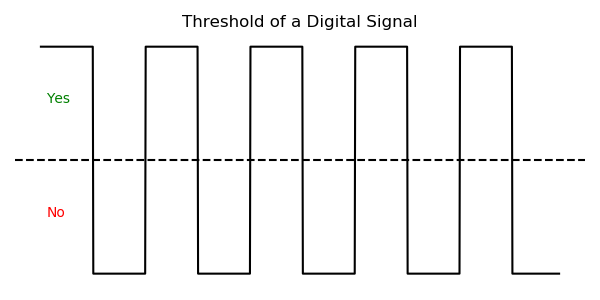
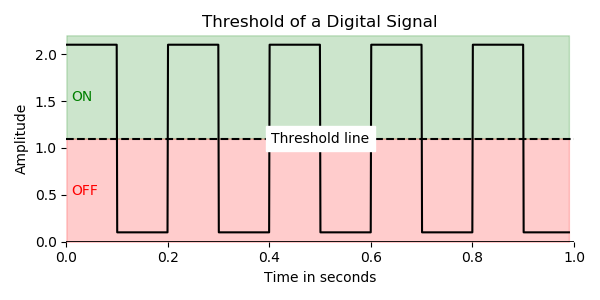
Digital

diff --git a/units/3 waves/resources/digital-plots.py b/units/3 waves/resources/digital-plots.py
@@ -9,22 +9,43 @@ import numpy as np
 t = np.linspace(0, 0.99, 1000, endpoint=True)
 
 fig, ax = plt.subplots(ncols=1, nrows=1, figsize=(6, 3))
-plt.axis('off')
 
-ax.plot(t, signal.square(2 * np.pi * 5 * t), color='k')
+
+ax.plot(t, signal.square(2 * np.pi * 5 * t) + 1.1, color='k')
 ax.set_title('Threshold of a Digital Signal')
 
-ax.axhline(y=0, color='k', ls='--')
+ax.axhline(y=1.1, color='k', ls='--')
 
-plt.text(0.01, 0.5, 'Yes', color='g')
-plt.text(0.01, -0.5, 'No', color='r')
+plt.text(0.01, 1.5, 'ON', color='g')
+plt.text(0.01, 0.5, 'OFF', color='r')
 
-ax.set_ylim(-1.1, 1.1)
+plt.text(0.5, 1.1, 'Threshold line', color='k',
+         verticalalignment='center',
+         horizontalalignment='center',
+         backgroundcolor='white')
+
+ax.fill_between(t, 1.1, 2.2, color='g', alpha=0.2)
+ax.fill_between(t, 0, 1.1, color='r', alpha=0.2)
+
+ax.set_ylim(0, 2.2)
+
+ax.set_frame_on(False)
+ax.get_xaxis().tick_bottom()
+# ax.axes.get_yaxis().set_visible(False)
+xmin, xmax = ax.get_xaxis().get_view_interval()
+ymin, ymax = ax.get_yaxis().get_view_interval()
+ax.add_artist(Line2D((xmin, xmax), (ymin, ymin), color='black', linewidth=2))
+
+ax.set_xlim(0, 1)
+
+ax.set_xlabel('Time in seconds')
+ax.set_ylabel('Amplitude')
+
 
 plt.tight_layout()
 plt.savefig('./digital-threshold.png', format='png', dpi=100)
-plt.close()
-# plt.show()
+# plt.close()
+plt.show()
 
 
 # Create a new plot for the frequency consideration
@@ -85,4 +106,4 @@ ax2.plot(t, 0.1 * np.sin(2 * np.pi * 5 * t), color='k')
 
 plt.tight_layout()
 plt.savefig('./digital-absorbed-filled.png', format='png', dpi=100)
-plt.show()
+plt.close()

diff --git a/units/3 waves/6 digital.md b/units/3 waves/6 digital.md
@@ -141,11 +141,11 @@ Digital is anything that only has 2 possibilities, 2 states.
 Think of a light switch, not a new fancy one but the old ones, they are either off or on.
 Here is a more extensive list:
 
-| 0 | 1 |
+| ON | OFF |
 |:-----:|:------:|
 | Black | White |
 | No | Yes |
-| Off | On |
+| 0 | 1 |
 | Up | Down |
 | Left | Right |
 
@@ -160,15 +160,25 @@ So, let us connect back to the activity.
 To describe digital there are two things to consider.
 
 ## Threshold
-Threshold is the point at which a signal is considered to be a yes, or a no.
-Anything above the threshold is a yes, anything below is a no.
+Threshold is the point at which a signal is considered to be a ON or OFF.
+Anything above the threshold is ON, anything below is a OFF.
 
 The threshold of a signal will later explain why a digital signal stops working as it gets smaller.
 
 <figure>
 <img src="/units/3 waves/resources/digital-threshold.png" alt="drawing" width="90%"/>
-<figcaption>Picture showing the yes/no threshold for a digital signal.</figcaption>
+<figcaption>Picture showing the ON/OFF threshold for a digital signal.</figcaption>
 </figure>
+
+Still confused?
+Let's try a different approach.
+Imagine you are drawing a picture and you make a mistake.
+So you erase something.
+You then keep going and make your picture perfectly.
+Now, when you show someone else your picture they will know that you have erased something, but they can't really tell what was there before.
+Since they can't really see it, they'll ignore it and only consider the darker lines that you've made.
+That is what a threshold is, the cutoff for when you consider something.
+In digital it is just very, very sharply defined.
 
 ## Frequency
 You are already familiar with frequency, so this will be quick.
@@ -231,15 +241,104 @@ Who likes music and movies?
 Every wonder about those discs that they used to store them on?
 What about NetFlix and why it is a bad idea to use mobile data with it?
 
-The thing about digital
+The thing about digital is that the frequency has to be really, really fast for it to be any use to us.
+Think back to the picture earlier.
+If you could only fill in one square every second, it would take you forever to make a picture.
+Instead, computers can fill in billions of squares a second.
+Just how fast you ask, well, off to wikipedia.
+
+## Instructions
+For each of the items in the table below, you are going to find the format in 
+[this wikipedia page](https://en.wikipedia.org/wiki/Bit_rate#Audio){: .btn .btn-outline}, with the exception of NetFlix, you are going to have to find that one else where.
+
+<label class="tasks-list-item">
+  <input type="checkbox" class="tasks-list-cb">
+  <span class="tasks-list-mark"></span>
+  <span class="tasks-list-desc">
+    Copy and fill out the following table in your notes.
+  </span>
+</label>
+
+| Format               | Bit rate |
+|----------------------|----------|
+| MP3 - medium quality |          |
+| CD (look for CD-DA)  |          |
+| YouTube 240p         |          |
+| YouTube 720p         |          |
+| YouTube 1080p        |          |
+| DVD                  |          |
+| Blu-Ray              |          |
+| NetFlix**            |          |
+
+And now, questions for your lab notebook
+<label class="tasks-list-item">
+  <input type="checkbox" class="tasks-list-cb">
+  <span class="tasks-list-mark"></span>
+  <span class="tasks-list-desc">
+    Describe the difference between watching YouTube at 240p and watching YouTube at 1080p.
+  </span>
+</label>
+<label class="tasks-list-item">
+  <input type="checkbox" class="tasks-list-cb">
+  <span class="tasks-list-mark"></span>
+  <span class="tasks-list-desc">
+    Compare the bit rate for 1080p with the bit rate for 240p, how much higher is it?
+  </span>
+</label>
+<label class="tasks-list-item">
+  <input type="checkbox" class="tasks-list-cb">
+  <span class="tasks-list-mark"></span>
+  <span class="tasks-list-desc">
+    Describe the difference between watching a moving on DVD and Blu-ray?
+  </span>
+</label>
+<label class="tasks-list-item">
+  <input type="checkbox" class="tasks-list-cb">
+  <span class="tasks-list-mark"></span>
+  <span class="tasks-list-desc">
+    The bit rate corresponds to the amount of information that the signal carries.  If the bit rate is higher, does it look/sound better?
+  </span>
+</label>
+<label class="tasks-list-item">
+  <input type="checkbox" class="tasks-list-cb">
+  <span class="tasks-list-mark"></span>
+  <span class="tasks-list-desc">
+    Have you ever switched from WiFi to Cellular, or moved around, and had YouTube or NetFlix lower the video quality so it looked grainy?  What do you think was happening?  _Describe it using bit rate..._
+  </span>
+</label>
 
 
 # Conclusion
 Answer the following in your lab notebook in complete sentences.
-  * <font color='blue'>How have I behaved in class today?</font>
-  * <font color='blue'>How could I better contributed to a positive classroom environment.</font>
-  * <font color='blue'>Summarize what you learned today in 1 sentence.</font>
-  * <font color='blue'>Answer the days essential question (EQ).</font>
+<label class="tasks-list-item">
+  <input type="checkbox" class="tasks-list-cb">
+  <span class="tasks-list-mark"></span>
+  <span class="tasks-list-desc">
+    How have I behaved in class today?
+  </span>
+</label>
+<label class="tasks-list-item">
+  <input type="checkbox" class="tasks-list-cb">
+  <span class="tasks-list-mark"></span>
+  <span class="tasks-list-desc">
+    How could I better contributed to a positive classroom environment.
+  </span>
+</label>
+<label class="tasks-list-item">
+  <input type="checkbox" class="tasks-list-cb">
+  <span class="tasks-list-mark"></span>
+  <span class="tasks-list-desc">
+    Summarize what you learned today in 1 sentence.
+  </span>
+</label>
+<label class="tasks-list-item">
+  <input type="checkbox" class="tasks-list-cb">
+  <span class="tasks-list-mark"></span>
+  <span class="tasks-list-desc">
+    Answer the days essential question (EQ).
+  </span>
+</label>
+
 
 # Help with absorption
 {: .no_toc}
